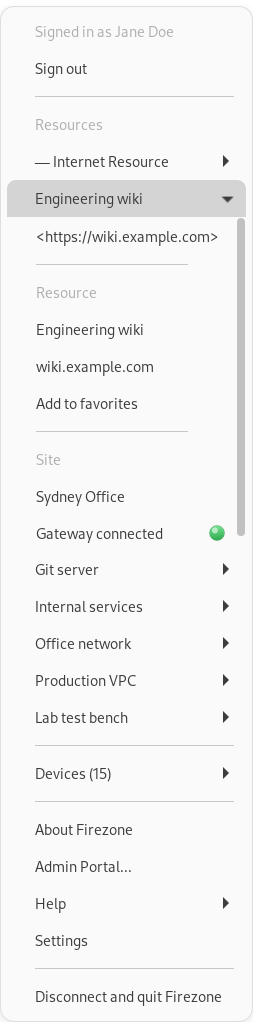
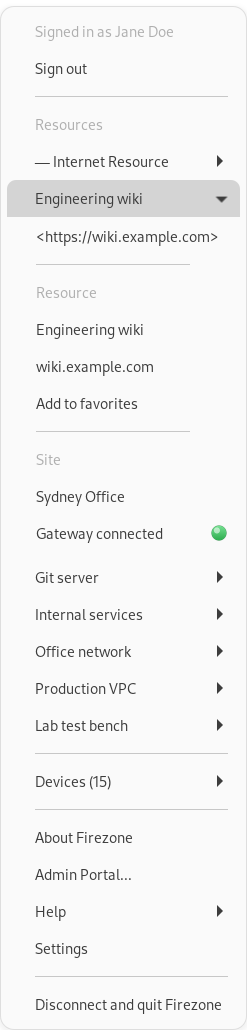
fix(ci): stabilize GNOME tray screenshots (#15220)
Wait for GNOME's tray menu to match the client's exported labels and
icons, and refresh stalled AppIndicator updates before taking a
screenshot. Open the resource submenu only after the populated menu has
settled, with enough display height to avoid incidental scrollbars.

Capture pending menu updates and layout measurements in the diagnostic
artifacts so future failures identify what remained incomplete.

---------

diff --git a/rust/tests/gui-smoke-test/src/tray_screenshot/gnome.js b/rust/tests/gui-smoke-test/src/tray_screenshot/gnome.js
@@ -6,6 +6,10 @@ global.firezoneScreenshot = {
     Main.loadTheme();
     Main.overview.hide();
     Main.welcomeDialog?.close();
+    this.frames = 0;
+    global.stage.connect("after-paint", () => this.frames++);
+    this.checkpoints = new Map();
+    this.refreshes = 0;
     return true;
   },
 
@@ -13,20 +17,117 @@ global.firezoneScreenshot = {
     const indicator = Object.values(Main.panel.statusArea).find(
       (item) => item?._indicator?.id === "dev.firezone.client"
     );
-    if (!indicator) return false;
+    const client = indicator?._menuClient?._client;
+    if (!client) return false;
 
     global.get_window_actors().forEach((actor) => actor.meta_window.minimize());
     // An empty PopupMenu cannot open to activate deferred DBusMenu updates.
-    if (indicator._menuClient) indicator._menuClient._client.active = true;
-    indicator.menu.open(false);
+    client.active = true;
+    this.readLayout(client);
+    const actual = this.describeMenu(indicator.menu);
+    const expected = this.layout?.children;
+    const complete =
+      !this.readError &&
+      expected?.some((item) => item.label === label) &&
+      JSON.stringify(actual) === JSON.stringify(expected);
+    const progress = JSON.stringify({
+      actual,
+      expected,
+      readError: this.readError,
+    });
+    const now = GLib.get_monotonic_time();
+    if (this.progress !== progress) {
+      this.progress = progress;
+      this.progressAt = now;
+    }
+    if (!complete) {
+      this.checkpoints.clear();
+      if (now - this.progressAt >= 5_000_000) {
+        if (this.refreshes >= 3)
+          throw new Error("AppIndicator menu is stale after three refreshes");
+        // AppIndicator can lose a deferred layout update while fetching an older
+        // layout. Refresh properties too: existing IDs may still have no labels.
+        client._flagItemsUpdateRequired = true;
+        client._requestLayoutUpdate();
+        this.refreshes++;
+        this.progressAt = now;
+        console.log(`Refreshing stale AppIndicator menu (${this.refreshes}/3)`);
+      }
+      return false;
+    }
+    if (!this.settled("contents", progress)) return false;
+
     const resource = indicator.menu
       ._getMenuItems()
       .find((item) => item.label?.text === label);
     if (!resource?.menu) return false;
-    resource.menu.open(false);
     this.menu = indicator.menu;
     this.submenu = resource.menu;
-    return resource.menu._getMenuItems().some((item) => item.label?.text);
+    this.menu.open(false);
+    if (!this.menu.actor.mapped) return false;
+    if (!this.submenu.isOpen) {
+      if (!this.settled("root geometry", this.geometry(this.menu)))
+        return false;
+      this.submenu.open(false);
+    }
+    const bounds = this.bounds();
+    if (!bounds) return false;
+    // GNOME chooses the scrollbar policy at open time, so re-open after any
+    // content change rather than keeping a decision made from a partial menu.
+    if (this.openContents && this.openContents !== progress) {
+      this.submenu.close(false);
+      this.checkpoints.clear();
+      this.openContents = null;
+      return false;
+    }
+    this.openContents = progress;
+    return this.settled("expanded geometry", {
+      bounds,
+      root: this.geometry(this.menu),
+      submenu: this.geometry(this.submenu),
+    });
+  },
+
+  readLayout(client) {
+    if (this.reading) return;
+    this.reading = true;
+    client
+      .GetLayoutAsync(0, -1, ["label", "icon-data"])
+      .then(([revision, root]) => {
+        const describe = ([id, properties, children]) => ({
+          id,
+          label: (properties.label?.deep_unpack() ?? "").replace(
+            /_([^_])/,
+            "$1"
+          ),
+          icon: Boolean(properties["icon-data"]),
+          children: children.map((child) => describe(child.deep_unpack())),
+        });
+        this.layout = describe(root);
+        this.revision = revision;
+        this.readError = null;
+      })
+      .catch((error) => {
+        this.readError = String(error);
+      })
+      .finally(() => {
+        this.reading = false;
+      });
+  },
+
+  settled(name, value) {
+    const snapshot = JSON.stringify(value);
+    const previous = this.checkpoints.get(name);
+    if (previous?.snapshot !== snapshot) {
+      this.checkpoints.set(name, { snapshot, frame: this.frames });
+      global.stage.queue_redraw();
+      return false;
+    }
+    if (this.frames - previous.frame < 2) {
+      global.stage.queue_redraw();
+      return false;
+    }
+    return true;
   },
 
   bounds() {
@@ -44,22 +145,55 @@ global.firezoneScreenshot = {
     return [x, y, right - x, bottom - y];
   },
 
-  describe() {
-    const describeMenu = (menu) =>
-      menu?._getMenuItems().map((item) => ({
-        label: item.label?.text,
-        visible: item.visible,
-        children: item.menu ? describeMenu(item.menu) : undefined,
-      }));
+  geometry(menu) {
+    if (!menu) return null;
     return {
+      position: menu.actor.get_transformed_position(),
+      size: menu.actor.get_transformed_size(),
+      naturalHeight: menu.actor.get_preferred_height(-1)[1],
+      maxHeight: menu.actor.get_theme_node().get_max_height(),
+      scrollbarPolicy: menu.actor.vscrollbar_policy,
+      scrollbarVisible: menu.actor.vscrollbar_visible,
+    };
+  },
+
+  describeMenu(menu) {
+    return (
+      menu?._getMenuItems().map((item) => ({
+        id: item._dbusItem?.getId(),
+        label: item.label?.text ?? "",
+        icon: Boolean(item._icon?.gicon),
+        children: this.describeMenu(item.menu),
+      })) ?? []
+    );
+  },
+
+  describe() {
+    return {
+      revision: this.revision,
+      expected: this.layout,
+      readError: this.readError,
+      refreshes: this.refreshes,
+      rootGeometry: this.geometry(this.menu),
+      submenuGeometry: this.geometry(this.submenu),
       panel: Object.entries(Main.panel.statusArea)
         .filter(([name]) => name.startsWith("appindicator-"))
-        .map(([name, item]) => ({
-          name,
-          id: item?._indicator?.id,
-          ready: item?._menuClient?.isReady,
-          menu: describeMenu(item?.menu),
-        })),
+        .map(([name, item]) => {
+          const client = item?._menuClient?._client;
+          return {
+            name,
+            id: item?._indicator?.id,
+            ready: item?._menuClient?.isReady,
+            layoutPending: client?._flagLayoutUpdateRequired,
+            propertiesPending: client?._flagItemsUpdateRequired,
+            layoutInFlight: Boolean(client?._layoutUpdateCancellable),
+            propertiesRequested: [...(client?._propertiesRequestedFor ?? [])],
+            itemsBeingAdded: [
+              ...(item?._menuClient?._itemsBeingAdded ?? []),
+            ].map((child) => child.getId()),
+            menu: this.describeMenu(item?.menu),
+          };
+        }),
       extensions: Main.extensionManager.getUuids().map((uuid) => {
         const extension = Main.extensionManager.lookup(uuid);
         return { uuid, state: extension.state, errors: extension.errors };

diff --git a/rust/tests/gui-smoke-test/src/tray_screenshot/linux.rs b/rust/tests/gui-smoke-test/src/tray_screenshot/linux.rs
@@ -12,6 +12,8 @@ use subprocess::{Exec, Job, Redirection};
 use zbus::blocking::{Connection, connection::Builder};
 
 const YARU_RESOURCE: &str = "/usr/share/gnome-shell/theme/Yaru/gnome-shell-theme.gresource";
+const DISPLAY_WIDTH: i32 = 1920;
+const DISPLAY_HEIGHT: i32 = 1440;
 const DIAGNOSTICS: &str = "target/gui-smoke-test/gnome-tray";
 
 /// Photographs the native GNOME AppIndicator menu on a bus supplied by `dbus-run-session`.
@@ -34,7 +36,7 @@ pub(crate) fn capture(submenu: &str, output: &Path) -> Result<()> {
             tracing::warn!("Failed to collect menu diagnostics: {error:#}");
         }
         let desktop = std::path::absolute(Path::new(DIAGNOSTICS).join("failure-desktop.png"))?;
-        if let Err(error) = session.screenshot([0, 0, 1920, 1080], &desktop) {
+        if let Err(error) = session.screenshot([0, 0, DISPLAY_WIDTH, DISPLAY_HEIGHT], &desktop) {
             tracing::warn!("Failed to capture the desktop: {error:#}");
         }
     }
@@ -119,7 +121,7 @@ impl Session {
                 "--wayland",
                 "--headless",
                 "--virtual-monitor",
-                "1920x1080",
+                &format!("{DISPLAY_WIDTH}x{DISPLAY_HEIGHT}"),
                 "--unsafe-mode",
             ]),
         )?;
@@ -157,13 +159,9 @@ impl Session {
             ]),
         )?;
         let open = format!("global.firezoneScreenshot.open({})", json!(submenu));
-        self.wait_for("resource submenu", || {
+        self.wait_for("complete menu and stable geometry", || {
             Ok(self.eval(&open)?.as_bool() == Some(true))
         })?;
-        self.wait_for("menu geometry", || {
-            Ok(!self.eval("global.firezoneScreenshot.bounds()")?.is_null())
-        })?;
-        std::thread::sleep(Duration::from_secs(2));
         let bounds =
             serde_json::from_value::<[i32; 4]>(self.eval("global.firezoneScreenshot.bounds()")?)?;
         self.save_menu()?;
@@ -289,7 +287,12 @@ impl Session {
     fn screenshot(&self, bounds: [i32; 4], output: &Path) -> Result<()> {
         let [x, y, width, height] = bounds;
         ensure!(
-            x >= 0 && y >= 0 && width > 0 && height > 0 && x + width <= 1920 && y + height <= 1080,
+            x >= 0
+                && y >= 0
+                && width > 0
+                && height > 0
+                && x + width <= DISPLAY_WIDTH
+                && y + height <= DISPLAY_HEIGHT,
             "Invalid menu bounds: {bounds:?}"
         );
         let reply = self.connection.call_method(
